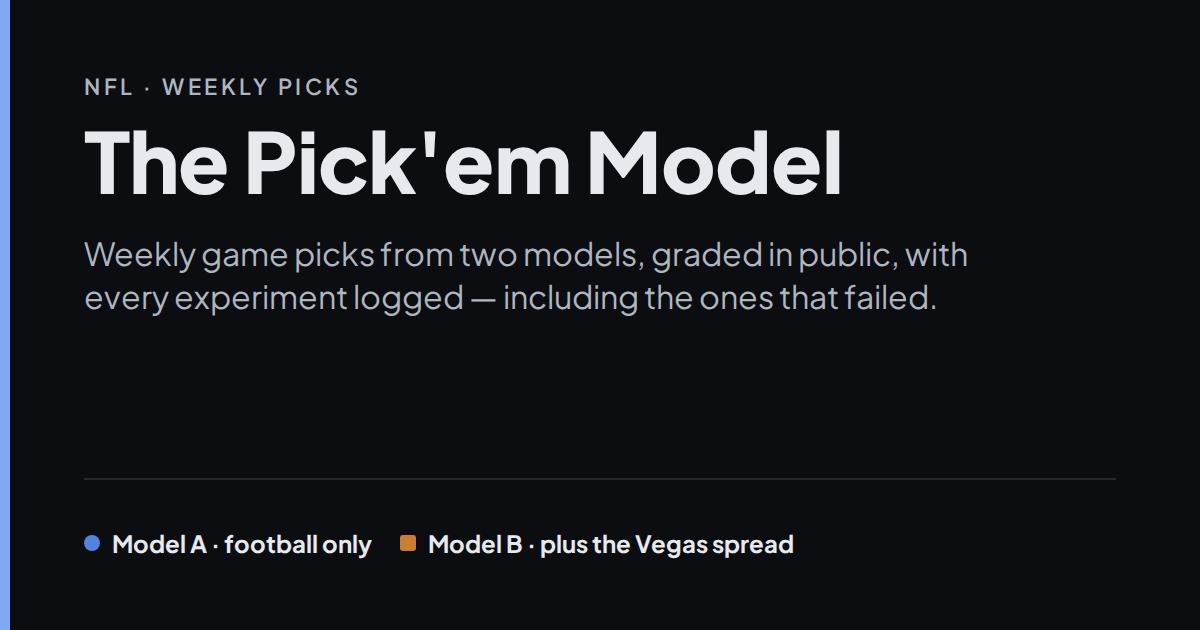
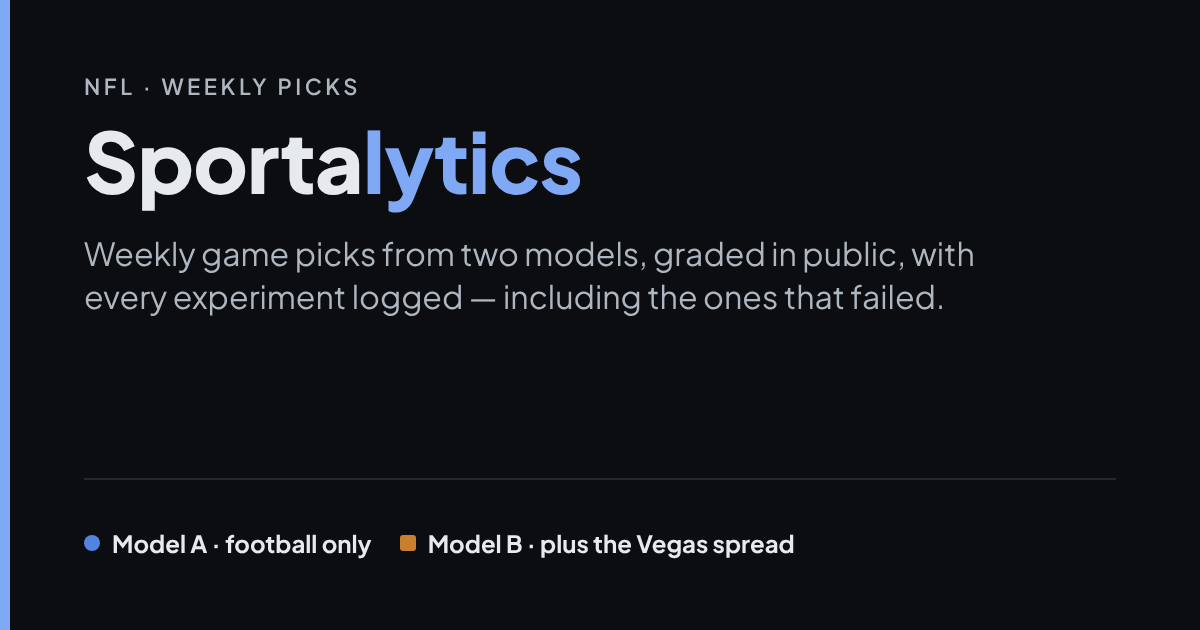
Stage 67: the product is Sportalytics, with wordmark W2
Mark chose the name and wordmark W2 from the "Sportalytics Icons and
Wordmark" canvas (2026-10-09): "Sporta" in the text colour and "lytics" in
the accent colour, on one line. The repository keeps its name.

- Every page's sidebar and phone bar (NFL, NHL, NBA) and the home page's
  brand carry the wordmark. The phone bar's heading was set in capitals
  for the old name and is now mixed case, as the sidebar is.
- Tab titles, link previews (og:site_name, og:title, og:image:alt), the
  structured data, the home-screen name and short name, the printed picks
  sheet, the README's title and the share image's source say Sportalytics.
  assets/og/og-card.png is remade from its source at 1200x630, as its
  header says.
- tests/test_product_name.py checks the wordmark on every page and the
  accent colour. test_the_old_name_is_nowhere_a_visitor_sees reads every
  file the site is built from or serves as is, for the old name in any
  spelling. The generic "pick'em" of a confidence pool stays.
- product_name.json: the three cases are re-anchored on the new name, and
  four new ones are added.

Claude-Session: https://claude.ai/code/session_011AYGqALkJNSXzTdPXd322V

diff --git a/src/dashboard/page.html b/src/dashboard/page.html
@@ -5,15 +5,15 @@
 <meta name="viewport" content="width=device-width, initial-scale=1.0, viewport-fit=cover">
 <meta http-equiv="Content-Security-Policy" content="default-src 'none'; script-src 'unsafe-inline'; style-src 'unsafe-inline'; img-src 'self' data: https://a.espncdn.com https://assets.nhle.com; font-src data:; connect-src 'none'; manifest-src 'self'; base-uri 'none'; form-action 'none'">
 <link rel="canonical" href="https://lifeisgreat07.github.io/NFL-Model-2/nfl/">
-<script type="application/ld+json">{"@context": "https://schema.org", "@type": "WebPage", "name": "NFL Week Board, The Pick'em Model", "url": "https://lifeisgreat07.github.io/NFL-Model-2/nfl/", "isPartOf": {"@type": "WebSite", "name": "The Pick'em Model", "url": "https://lifeisgreat07.github.io/NFL-Model-2/"}, "mainEntity": {"@type": "Dataset", "name": "Every locked NFL pick and its grade", "description": "One row per game of every locked week: both models' and the market's home win probabilities, each side's pick, the result and who was right.", "license": "https://opensource.org/licenses/MIT", "distribution": {"@type": "DataDownload", "encodingFormat": "text/csv", "contentUrl": "https://lifeisgreat07.github.io/NFL-Model-2/nfl/picks.csv"}}}</script>
+<script type="application/ld+json">{"@context": "https://schema.org", "@type": "WebPage", "name": "NFL Week Board, Sportalytics", "url": "https://lifeisgreat07.github.io/NFL-Model-2/nfl/", "isPartOf": {"@type": "WebSite", "name": "Sportalytics", "url": "https://lifeisgreat07.github.io/NFL-Model-2/"}, "mainEntity": {"@type": "Dataset", "name": "Every locked NFL pick and its grade", "description": "One row per game of every locked week: both models' and the market's home win probabilities, each side's pick, the result and who was right.", "license": "https://opensource.org/licenses/MIT", "distribution": {"@type": "DataDownload", "encodingFormat": "text/csv", "contentUrl": "https://lifeisgreat07.github.io/NFL-Model-2/nfl/picks.csv"}}}</script>
 <meta name="apple-mobile-web-app-capable" content="yes">
 <meta name="apple-mobile-web-app-status-bar-style" content="black-translucent">
-<meta name="apple-mobile-web-app-title" content="Pick'em Model">
+<meta name="apple-mobile-web-app-title" content="Sportalytics">
 <meta name="theme-color" content="#0B0E15">
-<!-- One product name everywhere (Stage 29; Mark, 2026-09-29): Pick'em
-     Model. The tab reads "<page> — Pick'em Model" on every page, this one
+<!-- One product name everywhere (Stage 29; renamed in Stage 67, Mark,
+     2026-10-09): Sportalytics. The tab reads "<page> — Sportalytics" on every page, this one
      included. tests/test_product_name.py holds it. -->
-<title>Week Board — Pick'em Model</title>
+<title>Week Board — Sportalytics</title>
 <!-- The favicon (Stage 29): assets/favicon.svg, published at the site root's
      assets/ by src/site/build.py. The board lives at nfl/ since Stage 53, so
      the link climbs one folder; from a local checkout's root index.html the
@@ -36,14 +36,14 @@
      Stage 53. tests/test_meta_and_og.py holds all of it. -->
 <meta name="description" content="Weekly NFL picks from two models, one football-only and one with the Vegas spread, graded in public, with every experiment logged, failures included.">
 <meta property="og:type" content="website">
-<meta property="og:site_name" content="The Pick'em Model">
-<meta property="og:title" content="The Pick'em Model">
+<meta property="og:site_name" content="Sportalytics">
+<meta property="og:title" content="Sportalytics">
 <meta property="og:description" content="Weekly NFL picks from two models, one football-only and one with the Vegas spread, graded in public, with every experiment logged, failures included.">
 <meta property="og:url" content="https://lifeisgreat07.github.io/NFL-Model-2/nfl/">
 <meta property="og:image" content="https://lifeisgreat07.github.io/NFL-Model-2/og-card.png">
 <meta property="og:image:width" content="1200">
 <meta property="og:image:height" content="630">
-<meta property="og:image:alt" content="The Pick'em Model: weekly game picks from two models, graded in public, with every experiment logged, including the ones that failed.">
+<meta property="og:image:alt" content="Sportalytics: weekly game picks from two models, graded in public, with every experiment logged, including the ones that failed.">
 <meta name="twitter:card" content="summary_large_image">
 <style>
 {% include "styles.css" %}

diff --git a/src/site/home/page.html b/src/site/home/page.html
@@ -5,22 +5,22 @@
 <meta name="viewport" content="width=device-width, initial-scale=1.0, viewport-fit=cover">
 <meta http-equiv="Content-Security-Policy" content="default-src 'none'; script-src 'unsafe-inline'; style-src 'unsafe-inline'; img-src 'self' data: https://a.espncdn.com https://assets.nhle.com; font-src data:; connect-src 'none'; manifest-src 'self'; base-uri 'none'; form-action 'none'">
 <link rel="canonical" href="https://lifeisgreat07.github.io/NFL-Model-2/">
-<script type="application/ld+json">{"@context": "https://schema.org", "@type": "WebSite", "name": "The Pick'em Model", "url": "https://lifeisgreat07.github.io/NFL-Model-2/", "description": "Picks for the NFL and the NHL from two models each, saved before the game and graded in public, with the NBA's backtest."}</script>
+<script type="application/ld+json">{"@context": "https://schema.org", "@type": "WebSite", "name": "Sportalytics", "url": "https://lifeisgreat07.github.io/NFL-Model-2/", "description": "Picks for the NFL and the NHL from two models each, saved before the game and graded in public, with the NBA's backtest."}</script>
 <meta name="theme-color" content="#0B0E15">
-<title>Pick'em Model</title>
+<title>Sportalytics</title>
 <link rel="icon" href="assets/favicon.svg" type="image/svg+xml">
 <link rel="manifest" href="assets/site.webmanifest">
 <link rel="apple-touch-icon" href="assets/apple-touch-icon.png">
 <meta name="description" content="Picks for the NFL and the NHL from two models each, saved before the game and graded in public, with the NBA's backtest.">
 <meta property="og:type" content="website">
-<meta property="og:site_name" content="The Pick'em Model">
-<meta property="og:title" content="The Pick'em Model">
+<meta property="og:site_name" content="Sportalytics">
+<meta property="og:title" content="Sportalytics">
 <meta property="og:description" content="Picks for the NFL and the NHL from two models each, saved before the game and graded in public, with the NBA's backtest.">
 <meta property="og:url" content="https://lifeisgreat07.github.io/NFL-Model-2/">
 <meta property="og:image" content="https://lifeisgreat07.github.io/NFL-Model-2/og-card.png">
 <meta property="og:image:width" content="1200">
 <meta property="og:image:height" content="630">
-<meta property="og:image:alt" content="The Pick'em Model: game picks from two models, graded in public, with every experiment logged, including the ones that failed.">
+<meta property="og:image:alt" content="Sportalytics: game picks from two models, graded in public, with every experiment logged, including the ones that failed.">
 <meta name="twitter:card" content="summary_large_image">
 <script>
   // Every shared-picks link was made on the NFL board when it lived here.
@@ -50,7 +50,7 @@ __FONT_FACES__
 </script>
 <a href="#home-main" class="skip-link">Skip to main content</a>
 <header class="home-bar">
-  <div class="home-brand">Pick'em Model<small>Picks, graded, for every sport we follow</small></div>
+  <div class="home-brand">Sporta<span class="wm-accent">lytics</span><small>Picks, graded, for every sport we follow</small></div>
   <nav class="home-switch" aria-label="Sports">
     <a href="./" aria-current="page">Home</a>
     <a href="nfl/">NFL</a>

diff --git a/src/sports/nba/pages/page.html b/src/sports/nba/pages/page.html
@@ -5,11 +5,11 @@
 <meta name="viewport" content="width=device-width, initial-scale=1.0, viewport-fit=cover">
 <meta http-equiv="Content-Security-Policy" content="default-src 'none'; script-src 'unsafe-inline'; style-src 'unsafe-inline'; img-src 'self' data: https://a.espncdn.com https://assets.nhle.com; font-src data:; connect-src 'none'; manifest-src 'self'; base-uri 'none'; form-action 'none'">
 <link rel="canonical" href="https://lifeisgreat07.github.io/NFL-Model-2/nba/">
-<script type="application/ld+json">{"@context": "https://schema.org", "@type": "WebPage", "name": "NBA Board, The Pick'em Model", "url": "https://lifeisgreat07.github.io/NFL-Model-2/nba/", "isPartOf": {"@type": "WebSite", "name": "The Pick'em Model", "url": "https://lifeisgreat07.github.io/NFL-Model-2/"}}</script>
+<script type="application/ld+json">{"@context": "https://schema.org", "@type": "WebPage", "name": "NBA Board, Sportalytics", "url": "https://lifeisgreat07.github.io/NFL-Model-2/nba/", "isPartOf": {"@type": "WebSite", "name": "Sportalytics", "url": "https://lifeisgreat07.github.io/NFL-Model-2/"}}</script>
 <meta name="theme-color" content="#0B0E15">
 <!-- The NBA's pages: the day board (Stage 65) and the backtest (Stage 61). One product
-     name everywhere, as on the NFL board: "<page> — Pick'em Model". -->
-<title>NBA — Pick'em Model</title>
+     name everywhere, as on the NFL board: "<page> — Sportalytics". -->
+<title>NBA — Sportalytics</title>
 <link rel="icon" href="../assets/favicon.svg" type="image/svg+xml">
 <link rel="manifest" href="../assets/site.webmanifest">
 <meta name="description" content="Daily NBA picks from two models, one basketball-only and one with the betting market, saved before tip-off and graded in public.">

diff --git a/src/sports/nhl/pages/page.html b/src/sports/nhl/pages/page.html
@@ -5,11 +5,11 @@
 <meta name="viewport" content="width=device-width, initial-scale=1.0, viewport-fit=cover">
 <meta http-equiv="Content-Security-Policy" content="default-src 'none'; script-src 'unsafe-inline'; style-src 'unsafe-inline'; img-src 'self' data: https://a.espncdn.com https://assets.nhle.com; font-src data:; connect-src 'none'; manifest-src 'self'; base-uri 'none'; form-action 'none'">
 <link rel="canonical" href="https://lifeisgreat07.github.io/NFL-Model-2/nhl/">
-<script type="application/ld+json">{"@context": "https://schema.org", "@type": "WebPage", "name": "NHL Board, The Pick'em Model", "url": "https://lifeisgreat07.github.io/NFL-Model-2/nhl/", "isPartOf": {"@type": "WebSite", "name": "The Pick'em Model", "url": "https://lifeisgreat07.github.io/NFL-Model-2/"}}</script>
+<script type="application/ld+json">{"@context": "https://schema.org", "@type": "WebPage", "name": "NHL Board, Sportalytics", "url": "https://lifeisgreat07.github.io/NFL-Model-2/nhl/", "isPartOf": {"@type": "WebSite", "name": "Sportalytics", "url": "https://lifeisgreat07.github.io/NFL-Model-2/"}}</script>
 <meta name="theme-color" content="#0B0E15">
 <!-- The NHL's pages (Stage 57). One product name everywhere, as on the NFL
-     board: "<page> — Pick'em Model". -->
-<title>NHL Board — Pick'em Model</title>
+     board: "<page> — Sportalytics". -->
+<title>NHL Board — Sportalytics</title>
 <link rel="icon" href="../assets/favicon.svg" type="image/svg+xml">
 <link rel="manifest" href="../assets/site.webmanifest">
 <meta name="description" content="Daily NHL picks from two models, one hockey-only and one with the betting market, saved before puck drop and graded in public.">

diff --git a/src/dashboard/styles.css b/src/dashboard/styles.css
@@ -174,6 +174,9 @@
     .is-loading .brand-ball .ball, .is-loading .brand-ball .lace{stroke:var(--text-3);}
   }
   .brand h1{font-family:'Plus Jakarta Sans', sans-serif; font-weight:800; font-size:var(--fs-24); letter-spacing:.01em; line-height:.98;}
+  /* Wordmark W2 (Stage 67): Sportalytics, "lytics" in the accent colour, on one line. */
+  .brand h1.wordmark{letter-spacing:-.01em; line-height:1;}
+  .wm-accent{color:var(--accent);}
   .brand-sub{font-family:'Plus Jakarta Sans', sans-serif; font-size:var(--fs-11); color:var(--text-2); margin-top:var(--s2);}
   nav.side-nav{display:flex; flex-direction:column; gap:2px; padding:0 var(--s3);}
   .nav-group-label{font-family:'Plus Jakarta Sans', sans-serif; font-size:var(--fs-11); letter-spacing:.13em; text-transform:uppercase; color:var(--text-2); padding:var(--s4) var(--s3) var(--s2);}
@@ -1592,7 +1595,7 @@
       background:var(--surface); border-bottom:1px solid var(--border);}
     .topbar .brand-ball{width:22px; height:22px; flex-shrink:0;}
     .topbar h1{font-family:'Plus Jakarta Sans', sans-serif; font-size:var(--fs-16); font-weight:800;
-      letter-spacing:.04em; line-height:1.2; text-transform:uppercase;}
+      letter-spacing:-.01em; line-height:1.2;}  /* wordmark W2: mixed case, as in the sidebar (Stage 67) */
     .topbar-sub{display:block; font-size:var(--fs-11); font-weight:500; letter-spacing:0;
       text-transform:none; color:var(--text-2);}
     .topbar-theme{margin-left:auto; width:40px; height:40px; flex-shrink:0; display:grid; place-items:center;

diff --git a/src/dashboard/body.html b/src/dashboard/body.html
@@ -4,7 +4,7 @@
   <div class="brand">
     <div class="brand-mark"><span class="pulse"></span>Season 2026</div>
     <div class="brand-row">
-      <svg class="brand-ball" viewBox="0 0 20 20" role="img" aria-label="Pick'em Model">
+      <svg class="brand-ball" viewBox="0 0 20 20" role="img" aria-label="Sportalytics">
         <g class="spin"><g transform="rotate(-28 10 10)">
           <ellipse class="ball" cx="10" cy="10" rx="8.6" ry="5.2"/>
           <line class="lace" x1="5.6" y1="10" x2="14.4" y2="10"/>
@@ -14,7 +14,7 @@
           <line class="lace" x1="13" y1="8.1" x2="13" y2="11.9"/>
         </g></g>
       </svg>
-      <h1>PICK'EM<br>MODEL</h1>
+      <h1 class="wordmark">Sporta<span class="wm-accent">lytics</span></h1>
     </div>
     <div class="brand-sub">Weekly NFL picks, graded</div>
   </div>
@@ -65,7 +65,7 @@
           <line class="lace" x1="13" y1="8.1" x2="13" y2="11.9"/>
         </g></g>
       </svg>
-  <h1>Pick'em Model <span class="topbar-sub">Weekly NFL picks, graded</span></h1>
+  <h1>Sporta<span class="wm-accent">lytics</span> <span class="topbar-sub">Weekly NFL picks, graded</span></h1>
   <button type="button" class="topbar-theme" aria-label="Toggle light and dark theme">
     <svg viewBox="0 0 24 24" fill="none" stroke="currentColor" stroke-width="2" stroke-linecap="round" aria-hidden="true"><circle cx="12" cy="12" r="4"/><path d="M12 2v2M12 20v2M4.9 4.9l1.4 1.4M17.7 17.7l1.4 1.4M2 12h2M20 12h2M4.9 19.1l1.4-1.4M17.7 6.3l1.4-1.4"/></svg>
   </button>

diff --git a/src/sports/nba/pages/body.html b/src/sports/nba/pages/body.html
@@ -4,13 +4,13 @@
   <div class="brand">
     <div class="brand-mark">Season 2026-27</div>
     <div class="brand-row">
-      <svg class="brand-ball" viewBox="0 0 20 20" role="img" aria-label="Pick'em Model, NBA">
+      <svg class="brand-ball" viewBox="0 0 20 20" role="img" aria-label="Sportalytics, NBA">
         <g transform="rotate(-28 10 10)">
           <circle class="ball" cx="10" cy="10" r="8.4"/>
           <path class="lace" d="M10 1.6v16.8M1.6 10h16.8M4.1 4c2.5 2.3 3 9.2 0 12M15.9 4c-2.5 2.3-3 9.2 0 12"/>
         </g>
       </svg>
-      <h1>PICK'EM<br>MODEL</h1>
+      <h1 class="wordmark">Sporta<span class="wm-accent">lytics</span></h1>
     </div>
     <div class="brand-sub">NBA: daily picks, saved before tip-off</div>
   </div>
@@ -42,7 +42,7 @@
           <path class="lace" d="M10 1.6v16.8M1.6 10h16.8M4.1 4c2.5 2.3 3 9.2 0 12M15.9 4c-2.5 2.3-3 9.2 0 12"/>
         </g>
       </svg>
-  <h1>Pick'em Model <span class="topbar-sub">NBA</span></h1>
+  <h1>Sporta<span class="wm-accent">lytics</span> <span class="topbar-sub">NBA</span></h1>
   <button type="button" class="topbar-theme" aria-label="Toggle light and dark theme">
     <svg viewBox="0 0 24 24" fill="none" stroke="currentColor" stroke-width="2" stroke-linecap="round" aria-hidden="true"><circle cx="12" cy="12" r="4"/><path d="M12 2v2M12 20v2M4.9 4.9l1.4 1.4M17.7 17.7l1.4 1.4M2 12h2M20 12h2M4.9 19.1l1.4-1.4M17.7 6.3l1.4-1.4"/></svg>
   </button>

diff --git a/src/sports/nhl/pages/body.html b/src/sports/nhl/pages/body.html
@@ -4,13 +4,13 @@
   <div class="brand">
     <div class="brand-mark"><span class="pulse"></span>Season 2026-27</div>
     <div class="brand-row">
-      <svg class="brand-ball" viewBox="0 0 20 20" role="img" aria-label="Pick'em Model, NHL">
+      <svg class="brand-ball" viewBox="0 0 20 20" role="img" aria-label="Sportalytics, NHL">
         <g transform="rotate(-28 10 10)">
           <ellipse class="ball" cx="10" cy="8.4" rx="8.4" ry="3.2"/>
           <path class="ball" d="M1.6 8.4v3.2a8.4 3.2 0 0 0 16.8 0V8.4"/>
         </g>
       </svg>
-      <h1>PICK'EM<br>MODEL</h1>
+      <h1 class="wordmark">Sporta<span class="wm-accent">lytics</span></h1>
     </div>
     <div class="brand-sub">Daily NHL picks, graded</div>
   </div>
@@ -47,7 +47,7 @@
           <path class="ball" d="M1.6 8.4v3.2a8.4 3.2 0 0 0 16.8 0V8.4"/>
         </g>
       </svg>
-  <h1>Pick'em Model <span class="topbar-sub">Daily NHL picks, graded</span></h1>
+  <h1>Sporta<span class="wm-accent">lytics</span> <span class="topbar-sub">Daily NHL picks, graded</span></h1>
   <button type="button" class="topbar-theme" aria-label="Toggle light and dark theme">
     <svg viewBox="0 0 24 24" fill="none" stroke="currentColor" stroke-width="2" stroke-linecap="round" aria-hidden="true"><circle cx="12" cy="12" r="4"/><path d="M12 2v2M12 20v2M4.9 4.9l1.4 1.4M17.7 17.7l1.4 1.4M2 12h2M20 12h2M4.9 19.1l1.4-1.4M17.7 6.3l1.4-1.4"/></svg>
   </button>

diff --git a/src/sports/nba/pages/nba.js b/src/sports/nba/pages/nba.js
@@ -516,7 +516,7 @@ function showPage(name, opts){
   window.scrollTo(0, 0);
   const page = document.getElementById('page-' + name);
   const heading = page && page.querySelector('.page-head h2');
-  document.title = name === 'board' || !heading ? BASE_TITLE : `${heading.textContent.trim()} — Pick'em Model`;
+  document.title = name === 'board' || !heading ? BASE_TITLE : `${heading.textContent.trim()} — Sportalytics`;
   if(opts && opts.focus && heading){
     heading.setAttribute('tabindex', '-1');
     heading.focus({preventScroll: true});

diff --git a/src/sports/nhl/pages/nhl.js b/src/sports/nhl/pages/nhl.js
@@ -647,7 +647,7 @@ function showPage(name, opts){
   window.scrollTo(0, 0);
   const page = document.getElementById('page-' + name);
   const heading = page && page.querySelector('.page-head h2');
-  document.title = name === 'board' || !heading ? BASE_TITLE : `${heading.textContent.trim()} — Pick'em Model`;
+  document.title = name === 'board' || !heading ? BASE_TITLE : `${heading.textContent.trim()} — Sportalytics`;
   if(opts && opts.focus && heading){
     heading.setAttribute('tabindex', '-1');
     heading.focus({preventScroll: true});

diff --git a/src/dashboard/app.js b/src/dashboard/app.js
@@ -739,7 +739,7 @@ function setActivePage(pageId, opts){
   window.scrollTo({top:0, behavior:'auto'});
   const heading = pageHeading(pageId);
   document.title = (pageId === 'board' || !heading) ? BASE_TITLE
-    : `${heading.textContent.trim()} — Pick'em Model`;
+    : `${heading.textContent.trim()} — Sportalytics`;
   if(opts && opts.focus && heading){
     heading.setAttribute('tabindex', '-1');
     heading.focus({preventScroll:true});

diff --git a/assets/og/og-card.html b/assets/og/og-card.html
@@ -23,7 +23,7 @@ p{font-size:32px;line-height:1.35;color:#AEB6C0;max-width:900px;margin:28px 0 0;
 <div class="frame">
   <div>
     <div class="eyebrow">NFL · weekly picks</div>
-    <h1>The Pick'em Model</h1>
+    <h1>Sporta<span style="color:#7FA8F5">lytics</span></h1>
     <p>Weekly game picks from two models, graded in public, with every experiment logged &mdash; including the ones that failed.</p>
   </div>
   <div class="foot">
